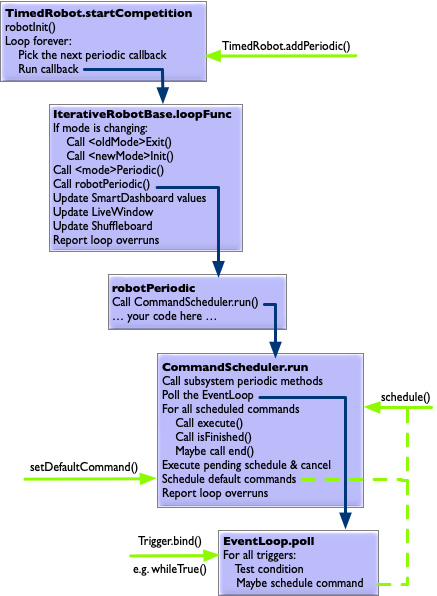
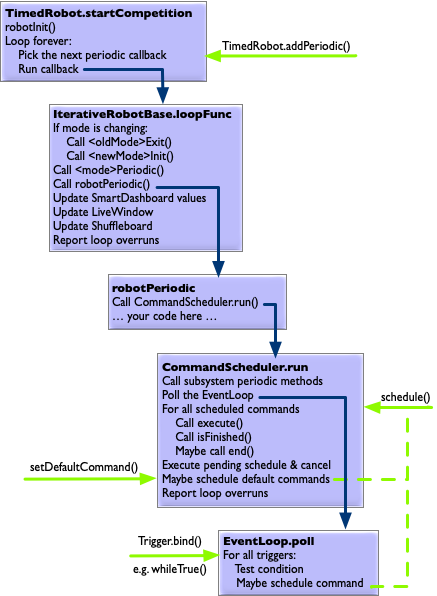
tweaks

Changed region(s): [[0.357, 0.6946, 0.9519, 0.9966]]

diff --git a/commands/commandscheduler.md b/commands/commandscheduler.md
@@ -42,7 +42,11 @@ There are a number of ways to invoke the `CommandScheduler`:
 ## Putting it all together
 
 <figure style="width: 50%; float:right;"><a href="everything_that_runs.png"><img style="width: 100%" src="everything_that_runs.png" alt="Everything that runs" /></a>
-<figcaption>This shows everything that is running in the robot's main event loop.</figcaption>
+<figcaption>
+This shows everything that is running in the robot's main event loop.
+Green arrows show potential interventions that may result in an additional task.
+Broken green lines show conditional intervention.
+</figcaption>
 </figure>
 
 This is a rough outline of how everything gets run.
